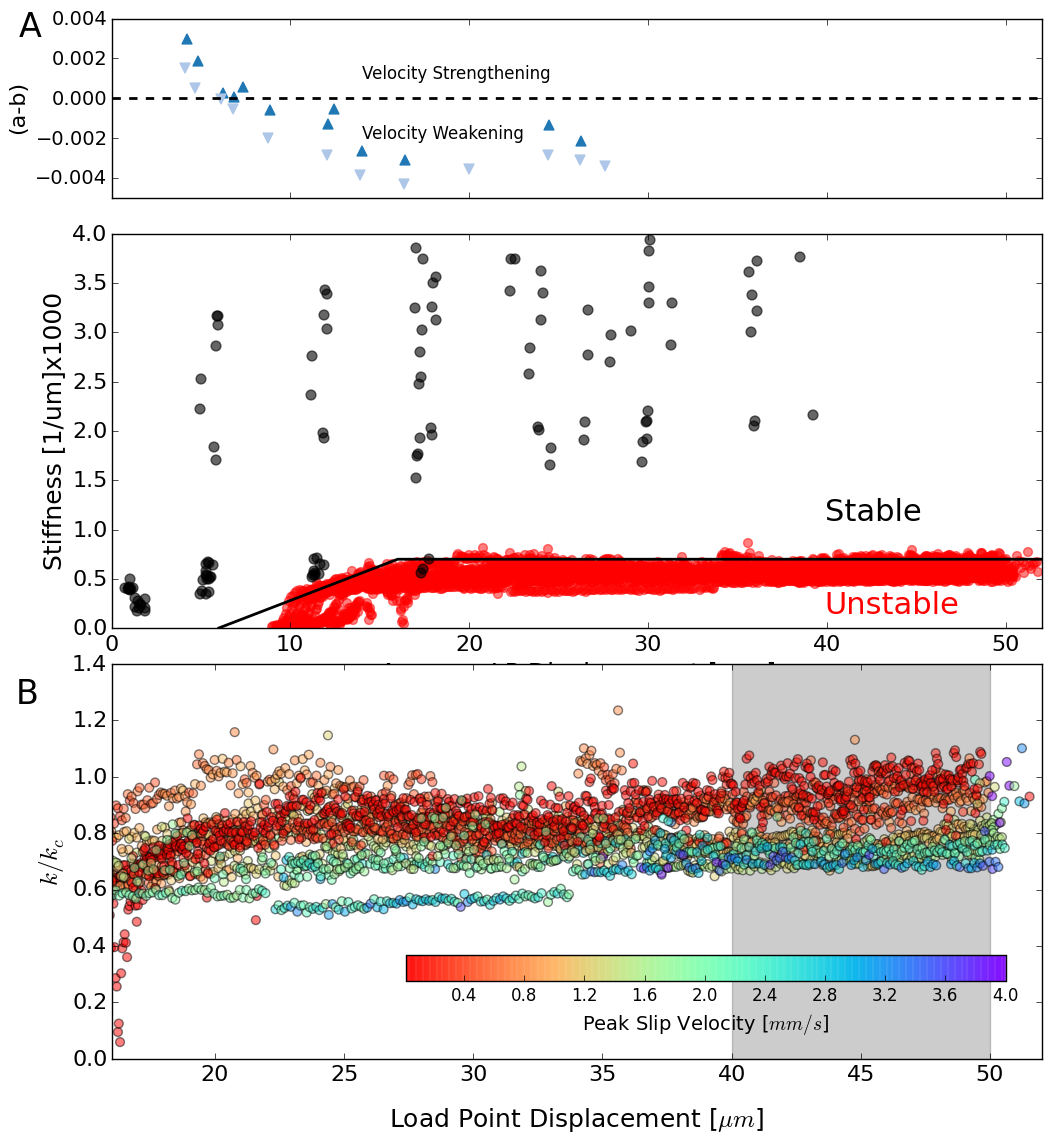
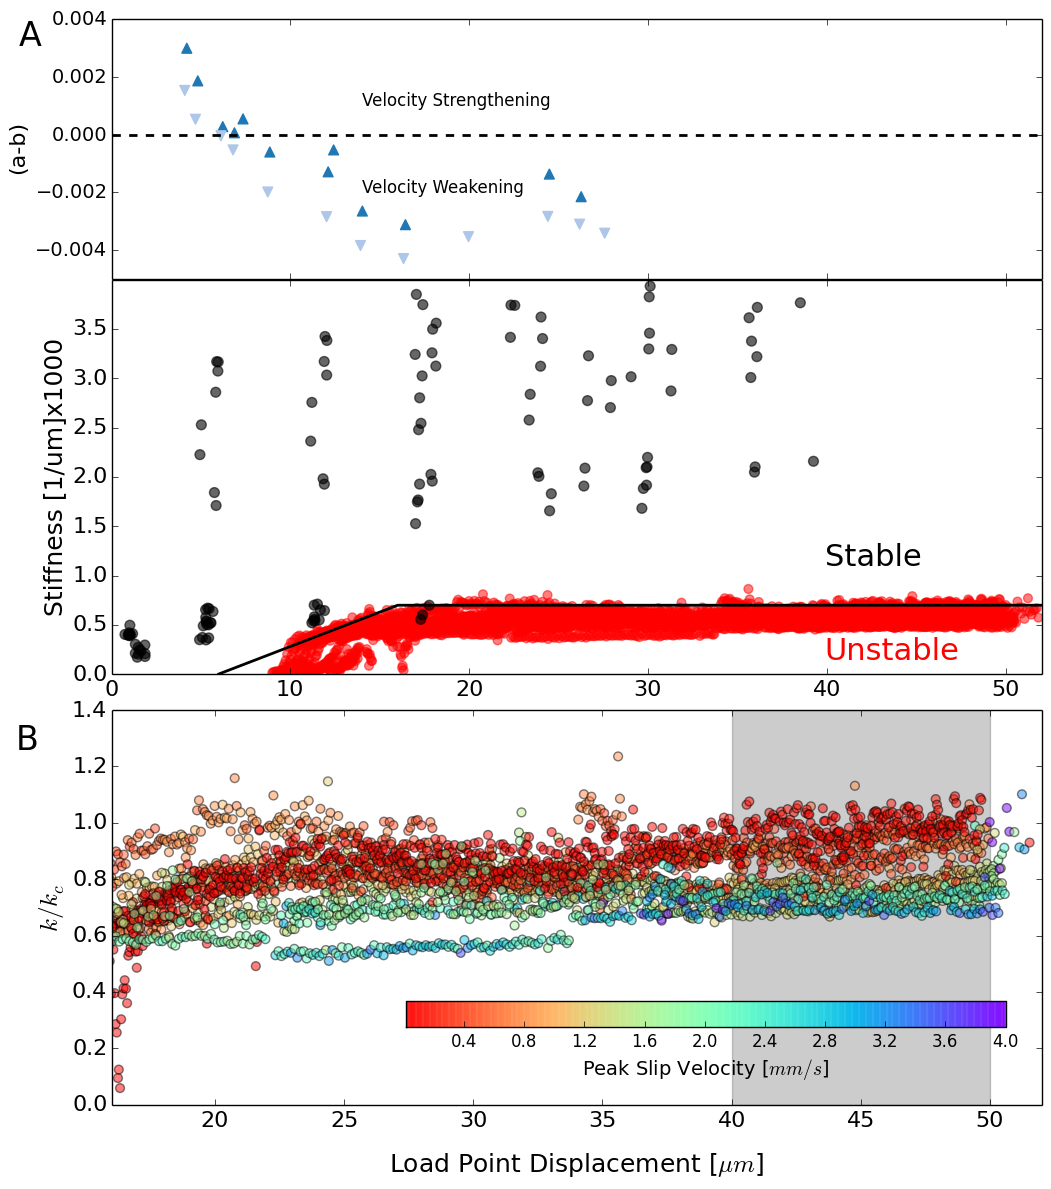
Adjust subplot spacing

diff --git a/Figures/Fig_Slip_Properties/make_final_plot.py b/Figures/Fig_Slip_Properties/make_final_plot.py
@@ -83,7 +83,7 @@ fig = plt.figure(figsize=(12,13))
 ax1 = plt.subplot2grid((5,1), (0,0), rowspan=1)
 ax2 = plt.subplot2grid((5,1), (1,0), rowspan=2)
 ax3 = plt.subplot2grid((5,1), (3,0), rowspan=2)
-
+ax1.set_position([0.125,0.735,0.775,0.2])
 
 #
 # Plot A top (a-b)
@@ -159,9 +159,10 @@ exps = ['p4267','p4268','p4269','p4270','p4271','p4272','p4273',
         'p4327','p4328','p4329','p4330']
 
 # Set labels and tick sizes
-ax2.set_xlabel(r'Average LP Displacement [mm]',fontsize=18)
+#ax2.set_xlabel(r'Average LP Displacement [mm]',fontsize=18)
 ax2.set_ylabel(r'Stiffness [1/um]x1000',fontsize=18)
 ax2.tick_params(axis='both', which='major', labelsize=16)
+ax2.get_yaxis().set_ticks([0,0.5,1,1.5,2,2.5,3,3.5])
 
 # Turns off chart clutter
 
